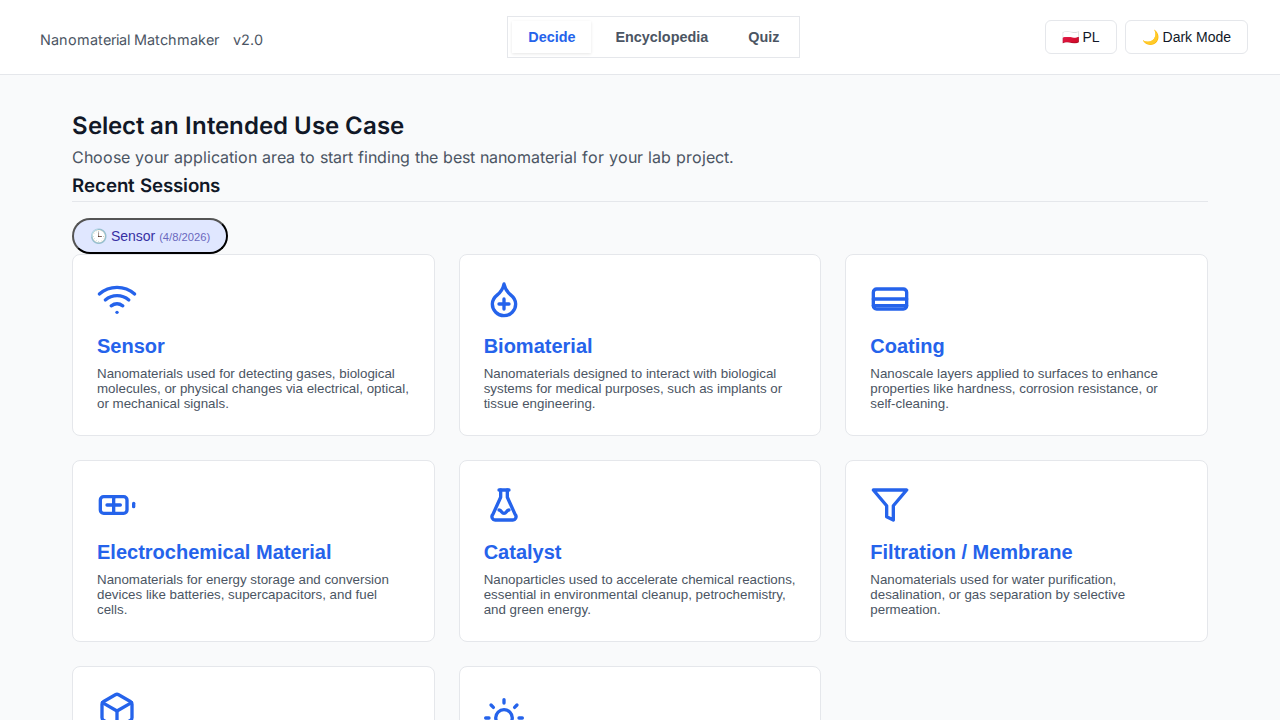
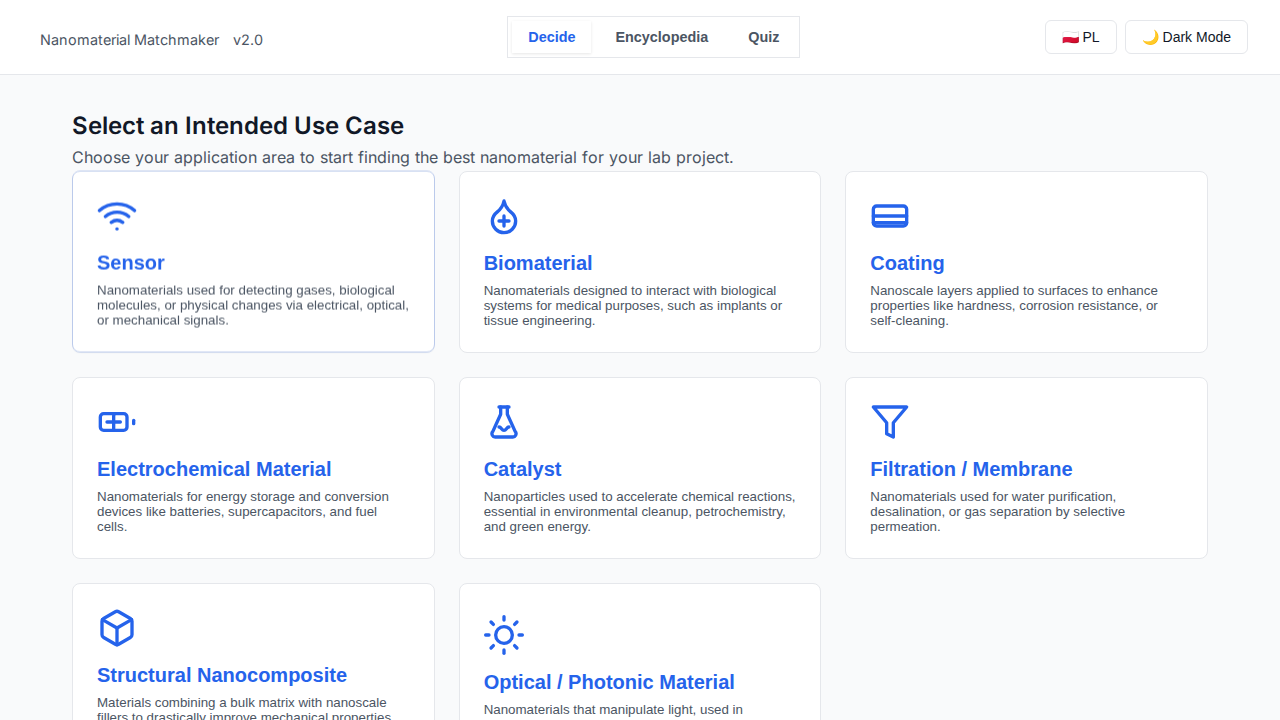
feat: remove recent sessions / bookmarks feature
As requested, removed the recent sessions/bookmarks feature entirely.

- Removed the `#bookmarks-section` block from `index.html`.
- Cleaned up `sessions` array, `saveSession`, and `renderBookmarks` logic from `app.js`.
- Removed `localStorage` operations tied to the sessions history.
- Cleaned up the Playwright end-to-end tests to reflect these changes.

diff --git a/app.js b/app.js
@@ -96,7 +96,6 @@ document.addEventListener('DOMContentLoaded', () => {
         if (mode === 'decide') {
             if (navDecide) navDecide.classList.add('active');
             renderGrid();
-            renderBookmarks();
             switchView(viewHome);
         } else if (mode === 'encyclopedia') {
             if (navEncyclopedia) navEncyclopedia.classList.add('active');
@@ -644,46 +643,8 @@ document.addEventListener('DOMContentLoaded', () => {
         switchView(viewHome);
     }
 
-    function saveSession(appId, appTitle) {
-        // Remove existing if same app
-        sessions = sessions.filter(s => s.appId !== appId);
-        sessions.unshift({
-            id: Date.now(),
-            appId: appId,
-            title: appTitle,
-            date: new Date().toLocaleDateString()
-        });
-        if (sessions.length > 5) sessions.pop();
-        localStorage.setItem('nanoSessions', JSON.stringify(sessions));
-        renderBookmarks();
-    }
-
-    function renderBookmarks() {
-        if (sessions.length === 0) {
-            if (bookmarksSection) bookmarksSection.style.display = 'none';
-            return;
-        }
-        if (bookmarksSection) bookmarksSection.style.display = 'block';
-        if (bookmarksList) {
-            bookmarksList.innerHTML = '';
-            sessions.forEach(session => {
-                const btn = document.createElement('button');
-                btn.className = 'tag';
-                btn.style.cursor = 'pointer';
-                btn.style.padding = '0.5rem 1rem';
-                btn.innerHTML = `🕒 ${session.title} <span style="font-size: 0.8em; opacity: 0.7;">(${session.date})</span>`;
-                btn.addEventListener('click', () => {
-                    showPriorityView(session.appId);
-                });
-                bookmarksList.appendChild(btn);
-            });
-        }
-    }
-
     /* STEP 1: HOME GRID */
     function renderGrid() {
-        renderBookmarks();
-
         // App Grid
         appGrid.innerHTML = '';
         applications.forEach(app => {
@@ -707,8 +668,6 @@ document.addEventListener('DOMContentLoaded', () => {
         if (!keepPriorities) {
             userPriorities = {}; // reset on new entry
         }
-
-        saveSession(currentApp.id, currentApp.title);
 
         document.getElementById('pri-app-name').textContent = currentApp.title;
 
